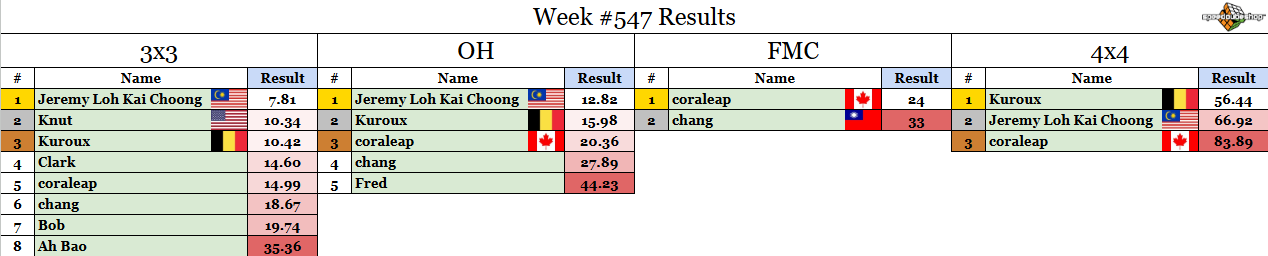
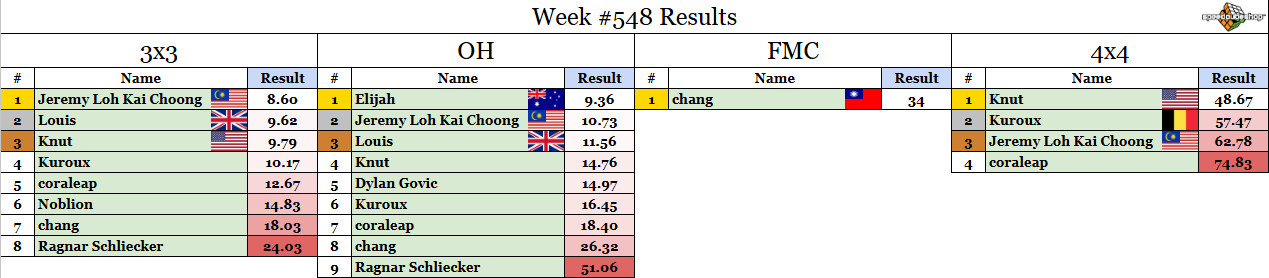
weekly comp update

diff --git a/src/weeklycomp/post.md b/src/weeklycomp/post.md
@@ -1,9 +1,9 @@
-## Weekly Competition #548 
+## Weekly Competition #549 
  
  This weekly competition is proudly sponsored by SpeedCubeShop.com 
  One competitor will be selected at random to receive a $5 SCS gift card! 
  
- Congrats to last week's winner by a random draw: **Kuroux**. DM me for the prize. 
+ Congrats to last week's winner by a random draw: **Dylan Govic**. DM me for the prize. 
  
  Check whether or not you participated this week yet at [https://bit.ly/RMSWeeklyCompSummary](https://bit.ly/RMSWeeklyCompSummary)  
  
@@ -17,30 +17,29 @@
  7. The comp runs until Sunday 5pm Eastern time (more or less). Enter your times using the forms links below. 
  
 ### 3x3: [Submission Form](https://forms.gle/H5xoCWvGKnZ92fQt8) 
- 1. F2 R U2 F' L2 U2 F' U2 L2 U2 B2 U2 F' R F2 D R2 F2 R' B' D 
- 2. B' R F2 U2 F' B2 L' D F2 L2 U2 R2 F' U2 R2 F L2 F2 L2 
- 3. F' R2 D' L2 U2 L' D' F L U2 F2 R2 F2 L2 U 
- 4. U2 L2 U2 R' U2 B2 R2 U2 L U2 B2 U2 B' U R2 F2 R2 D2 R' D' B 
- 5. U L' U2 F D F2 D' F L F' R2 F' R2 L2 F' L2 B2 R2 D2 F2 
+ 1. D2 R2 D' B2 U R2 F2 L2 U2 R2 D' L2 R F U' B2 R2 U2 R F2 U 
+ 2. U R2 F2 L' R2 F2 U2 R' F2 D2 L B2 R2 B D' F L' F L' R' F' 
+ 3. L' D R' U' B L U' D' L2 F U2 R2 F L2 U2 B U2 B2 L2 F' R 
+ 4. R U F2 D2 U2 R2 B' D2 U2 L2 F R2 F R' U F' D2 F L F2 D' 
+ 5. L2 R2 U F2 U' L2 D2 B2 D' B2 R2 D2 L B D L' R' U' L2 D' L 
  
 ### OH: [Submission Form](https://forms.gle/UgRLW3K1d5KkMGfM9) 
- 1. L2 D2 F2 L' D2 U2 B2 L' D2 L D2 B2 U' B L' B2 F2 D' L' F' 
- 2. D2 R U L2 D' R2 F2 U' F2 L2 U L2 U L' U' F' U B L' D R 
- 3. L2 D U2 L2 R2 B2 D' F2 U' B2 U R D' L2 F2 L' F' R2 U' R 
- 4. F' D2 F U B2 D' L2 D L2 R2 U B2 D' L R' D' R2 B' F L 
- 5. B2 L2 D B2 R2 B2 U' F2 U R2 U F U' L2 B2 L B R' B R2 
+ 1. U F2 R2 F' D2 B F2 L2 R2 U2 B' U2 L D F2 R' D B R 
+ 2. L2 U' F2 R2 D' F2 D' R2 D L R U' B F' D2 U2 L' D' 
+ 3. B' D2 U2 F L2 B' D2 R2 F2 U2 B' L D' F L R U R D2 B' L2 
+ 4. L' B L2 U2 R2 U2 B2 U2 F' D2 L2 B R2 L' D L' U' B L2 U2 B2 
+ 5. U F2 R D R2 U2 F2 R2 U F2 R2 F2 U2 B L' D' F R2 B2 L' 
  
 ### FMC: [Submission Form](https://forms.gle/1P9VUgZmA1pibwvL9) 
- 1. R' U' F R2 F2 R2 B L2 U2 B F L2 F2 U2 F' R' D' B F2 R U2 L D' B' R' U' F 
+ 1. R' U' F U2 F2 U2 L' D2 R2 F2 L2 F2 U2 R' D' L' B D U2 R' U2 R2 F' R' U' F 
  
 ### 4x4: [Submission Form](https://forms.gle/bHNjncvEcPvFWBP2A) 
- 1. U2 L' U2 R2 F2 D2 B2 L B2 R F2 U2 B' R' B D' F' B2 D2 R Uw2 Fw2 D F2 L Uw2 R2 Uw2 R' U D' B' U' Fw D2 Fw' U Rw' Fw R' F Rw2 U2 D2 
- 2. D L B U L' D2 L' B' U2 D2 L2 F2 U2 D2 R B2 R' D2 F2 U' Fw2 R' U2 R2 U Fw2 D' R' Fw2 D2 Uw2 R2 Rw2 Fw' R D' F2 Fw2 U R Uw L Rw F2 Fw Rw 
- 3. R2 D' R' U' L F L' D2 F L2 F2 D2 L2 D L2 F2 U2 R2 U F2 Rw2 D2 B' Rw2 U' B Fw2 Uw2 F2 D' Fw2 R2 F R2 Rw' D F B2 D' Rw' Fw U' Rw F2 Uw' 
- 4. F2 B R B2 D2 L D2 L' B2 L F2 R2 F2 D L' F' B2 U L B D Rw2 U' L' Fw2 D2 Rw2 F2 D' F2 R' Uw2 Rw2 Fw Rw2 B' U' F' Uw' F' B R Uw R2 Fw' U 
- 5. F' R L' D2 B' L' D F R2 U2 D2 F' L2 F D2 L2 B' L2 B' U B2 Rw2 U2 Uw2 B' D R2 D2 Fw2 Rw2 D2 Uw2 B' R2 Rw U' L' D L2 Uw R2 F B Fw D Fw2 
+ 1. D' L' F' D L' U' L' U' R2 B2 L2 U' F2 D L2 B2 D2 F' D Uw2 L' F' Rw2 Fw2 R2 B L F U2 R2 Fw2 R' Uw L2 Uw' F' B2 Uw' Fw' Rw' U F' R' L2 D2 
+ 2. L2 F2 D2 B2 U2 L2 F2 B R2 L2 F' U L2 D R' L B D2 L' U' B2 Fw2 R' B2 R Rw2 Uw2 L2 B L Rw2 Uw' R' B Fw2 L2 F2 D' Rw' U Fw L2 Rw2 B 
+ 3. B' R2 F' R2 B L2 F R2 F L2 F' D L F' B2 L B R2 D' L Uw2 B R2 Uw2 Fw2 R U2 Fw2 R2 B Rw2 B' Uw Fw2 U Rw2 F Fw' Uw' R Fw' Rw' Uw' L2 
+ 4. L' D2 F' D' R F2 B2 D' R' B' R2 D' B2 L2 D2 B2 L2 D F2 L2 Fw2 Rw2 F2 D Fw2 D' R F2 L' Uw2 L Rw2 D2 F U2 F2 L' Rw' Fw2 Uw R Fw' R D2 
+ 5. R U2 R' D2 R F2 U2 L B2 R2 U2 F L2 U' R' L B' U' L D2 B Fw2 U R' Rw2 U F2 R Uw2 L' U' Uw2 L F' Fw' L D' L2 F2 B' Rw' Fw' L2 Fw Uw L' Fw2 
  
 ### Winning FMC solutions from last week: 
- 1. coraleap, 24 moves: [SOLUTION](https://bit.ly/42eNoLk) 
- 2. chang, 33 moves: [SOLUTION](https://bit.ly/4pg3vSS)
+ 1. chang, 34 moves: [SOLUTION](https://bit.ly/46DN4IE)
  
